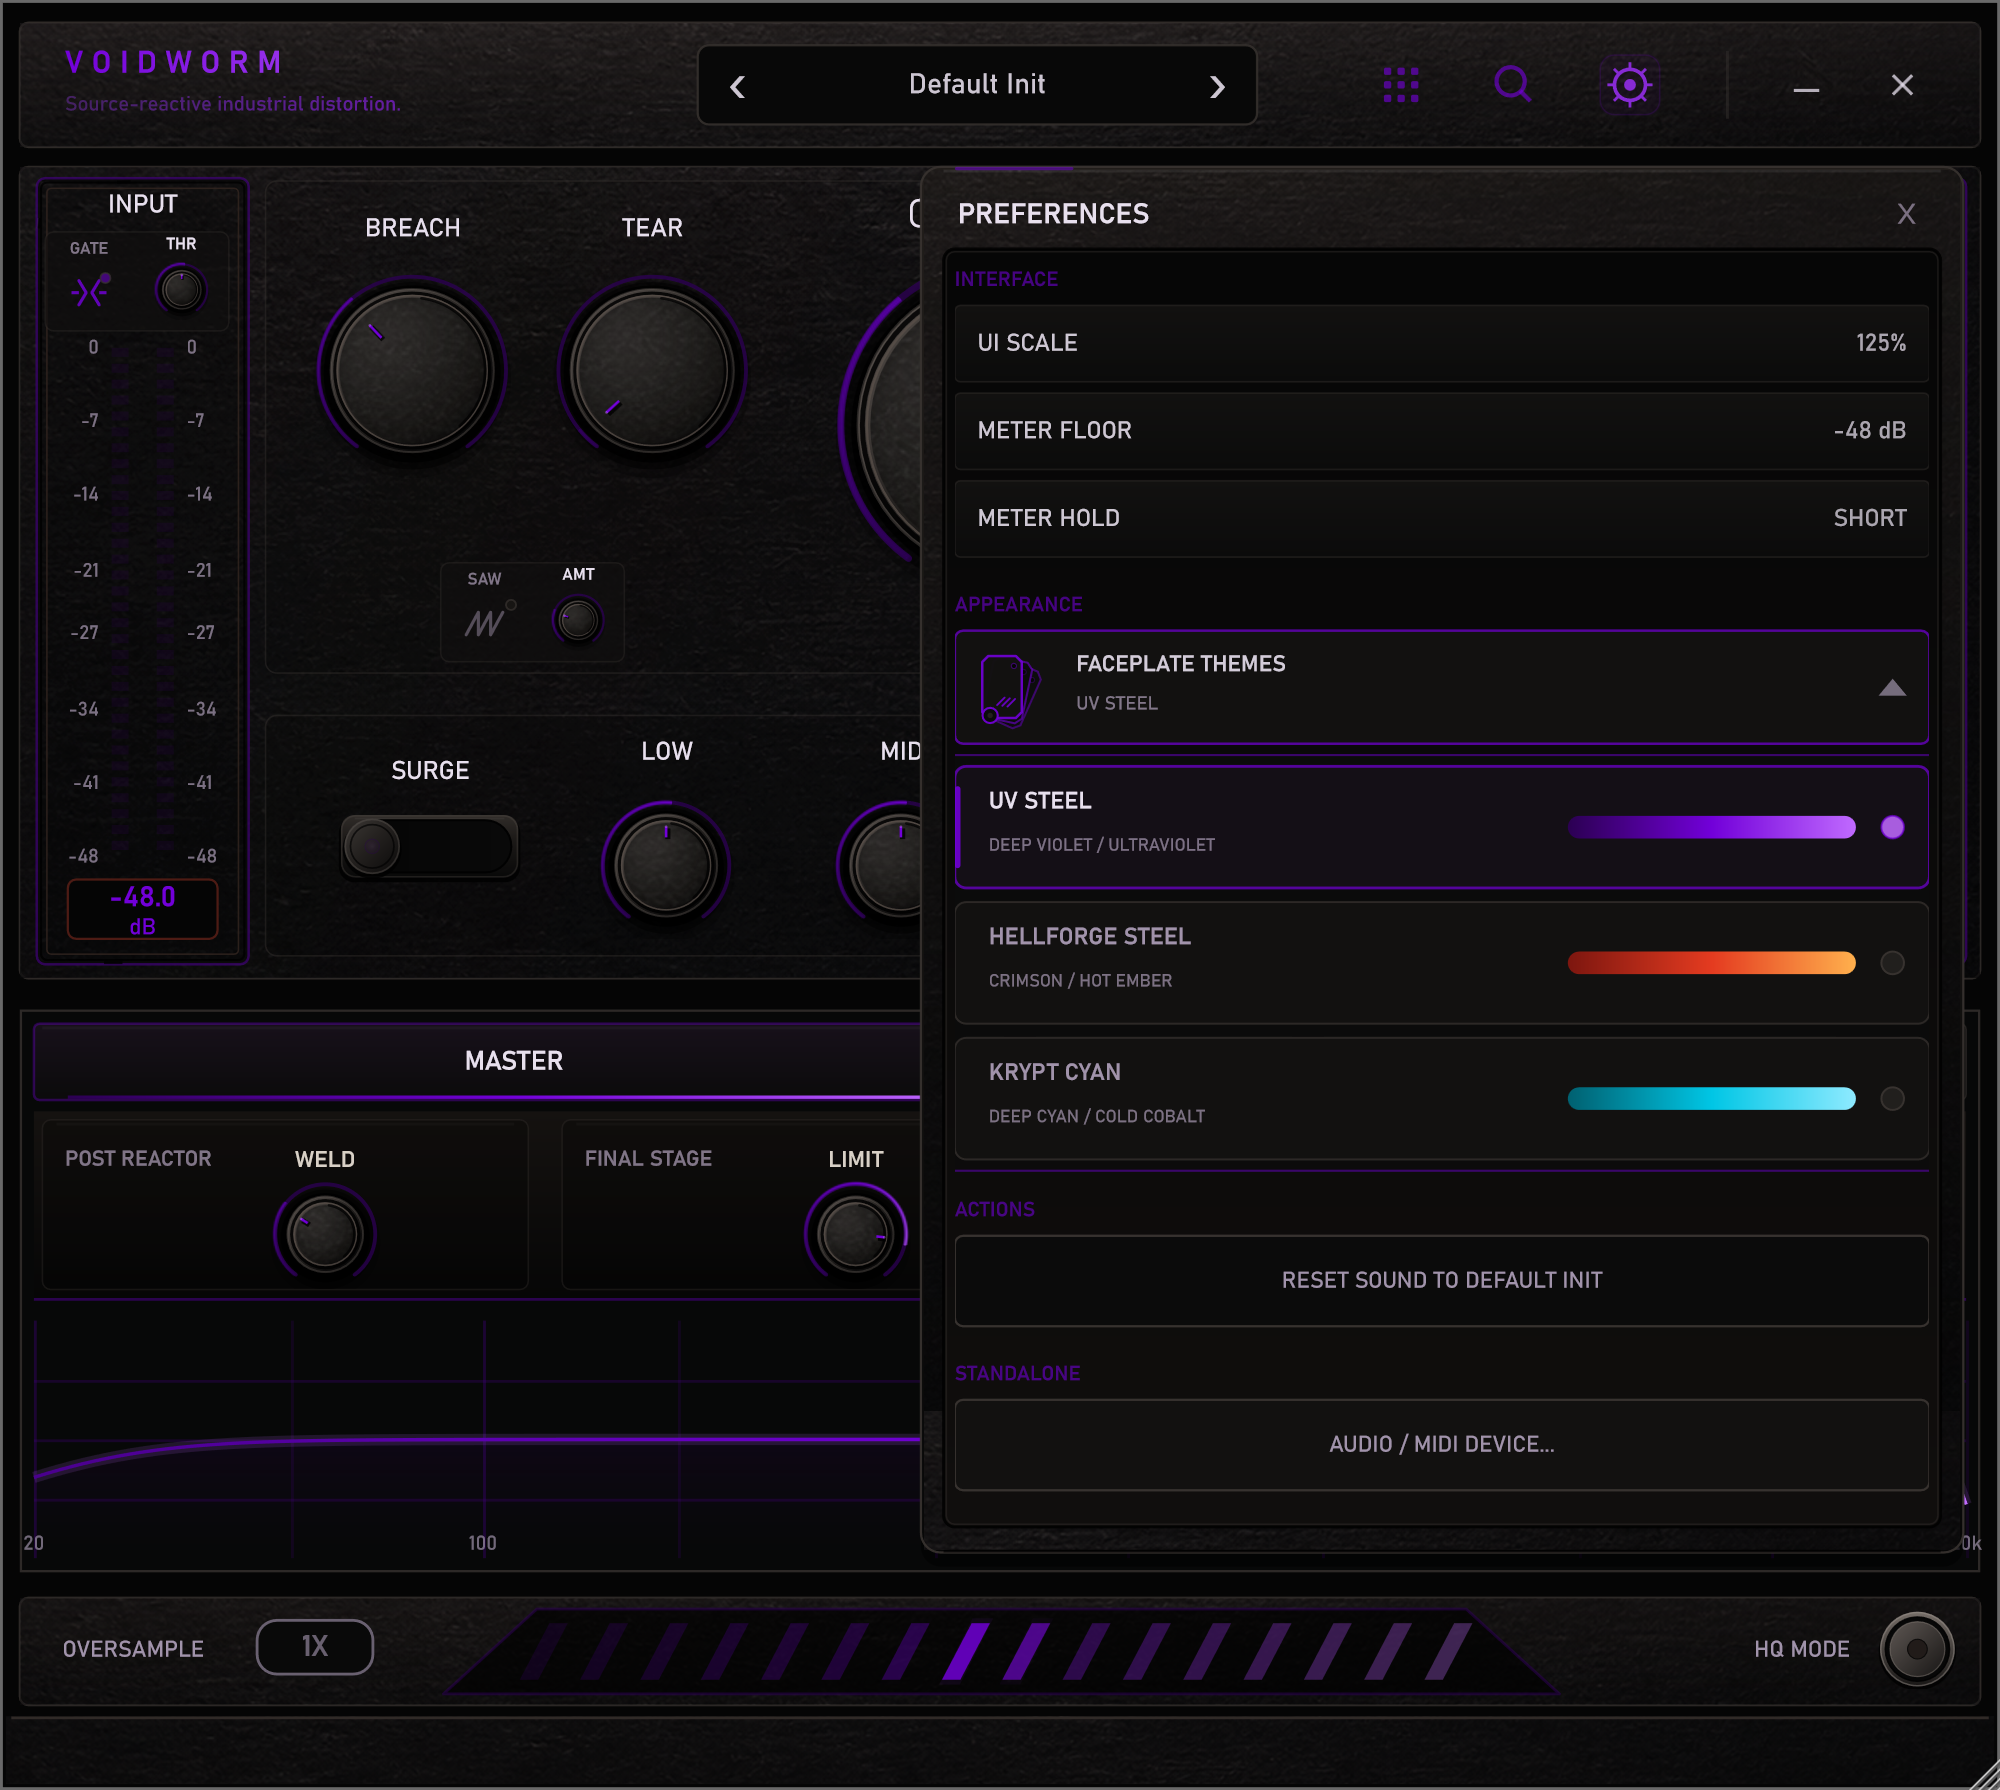
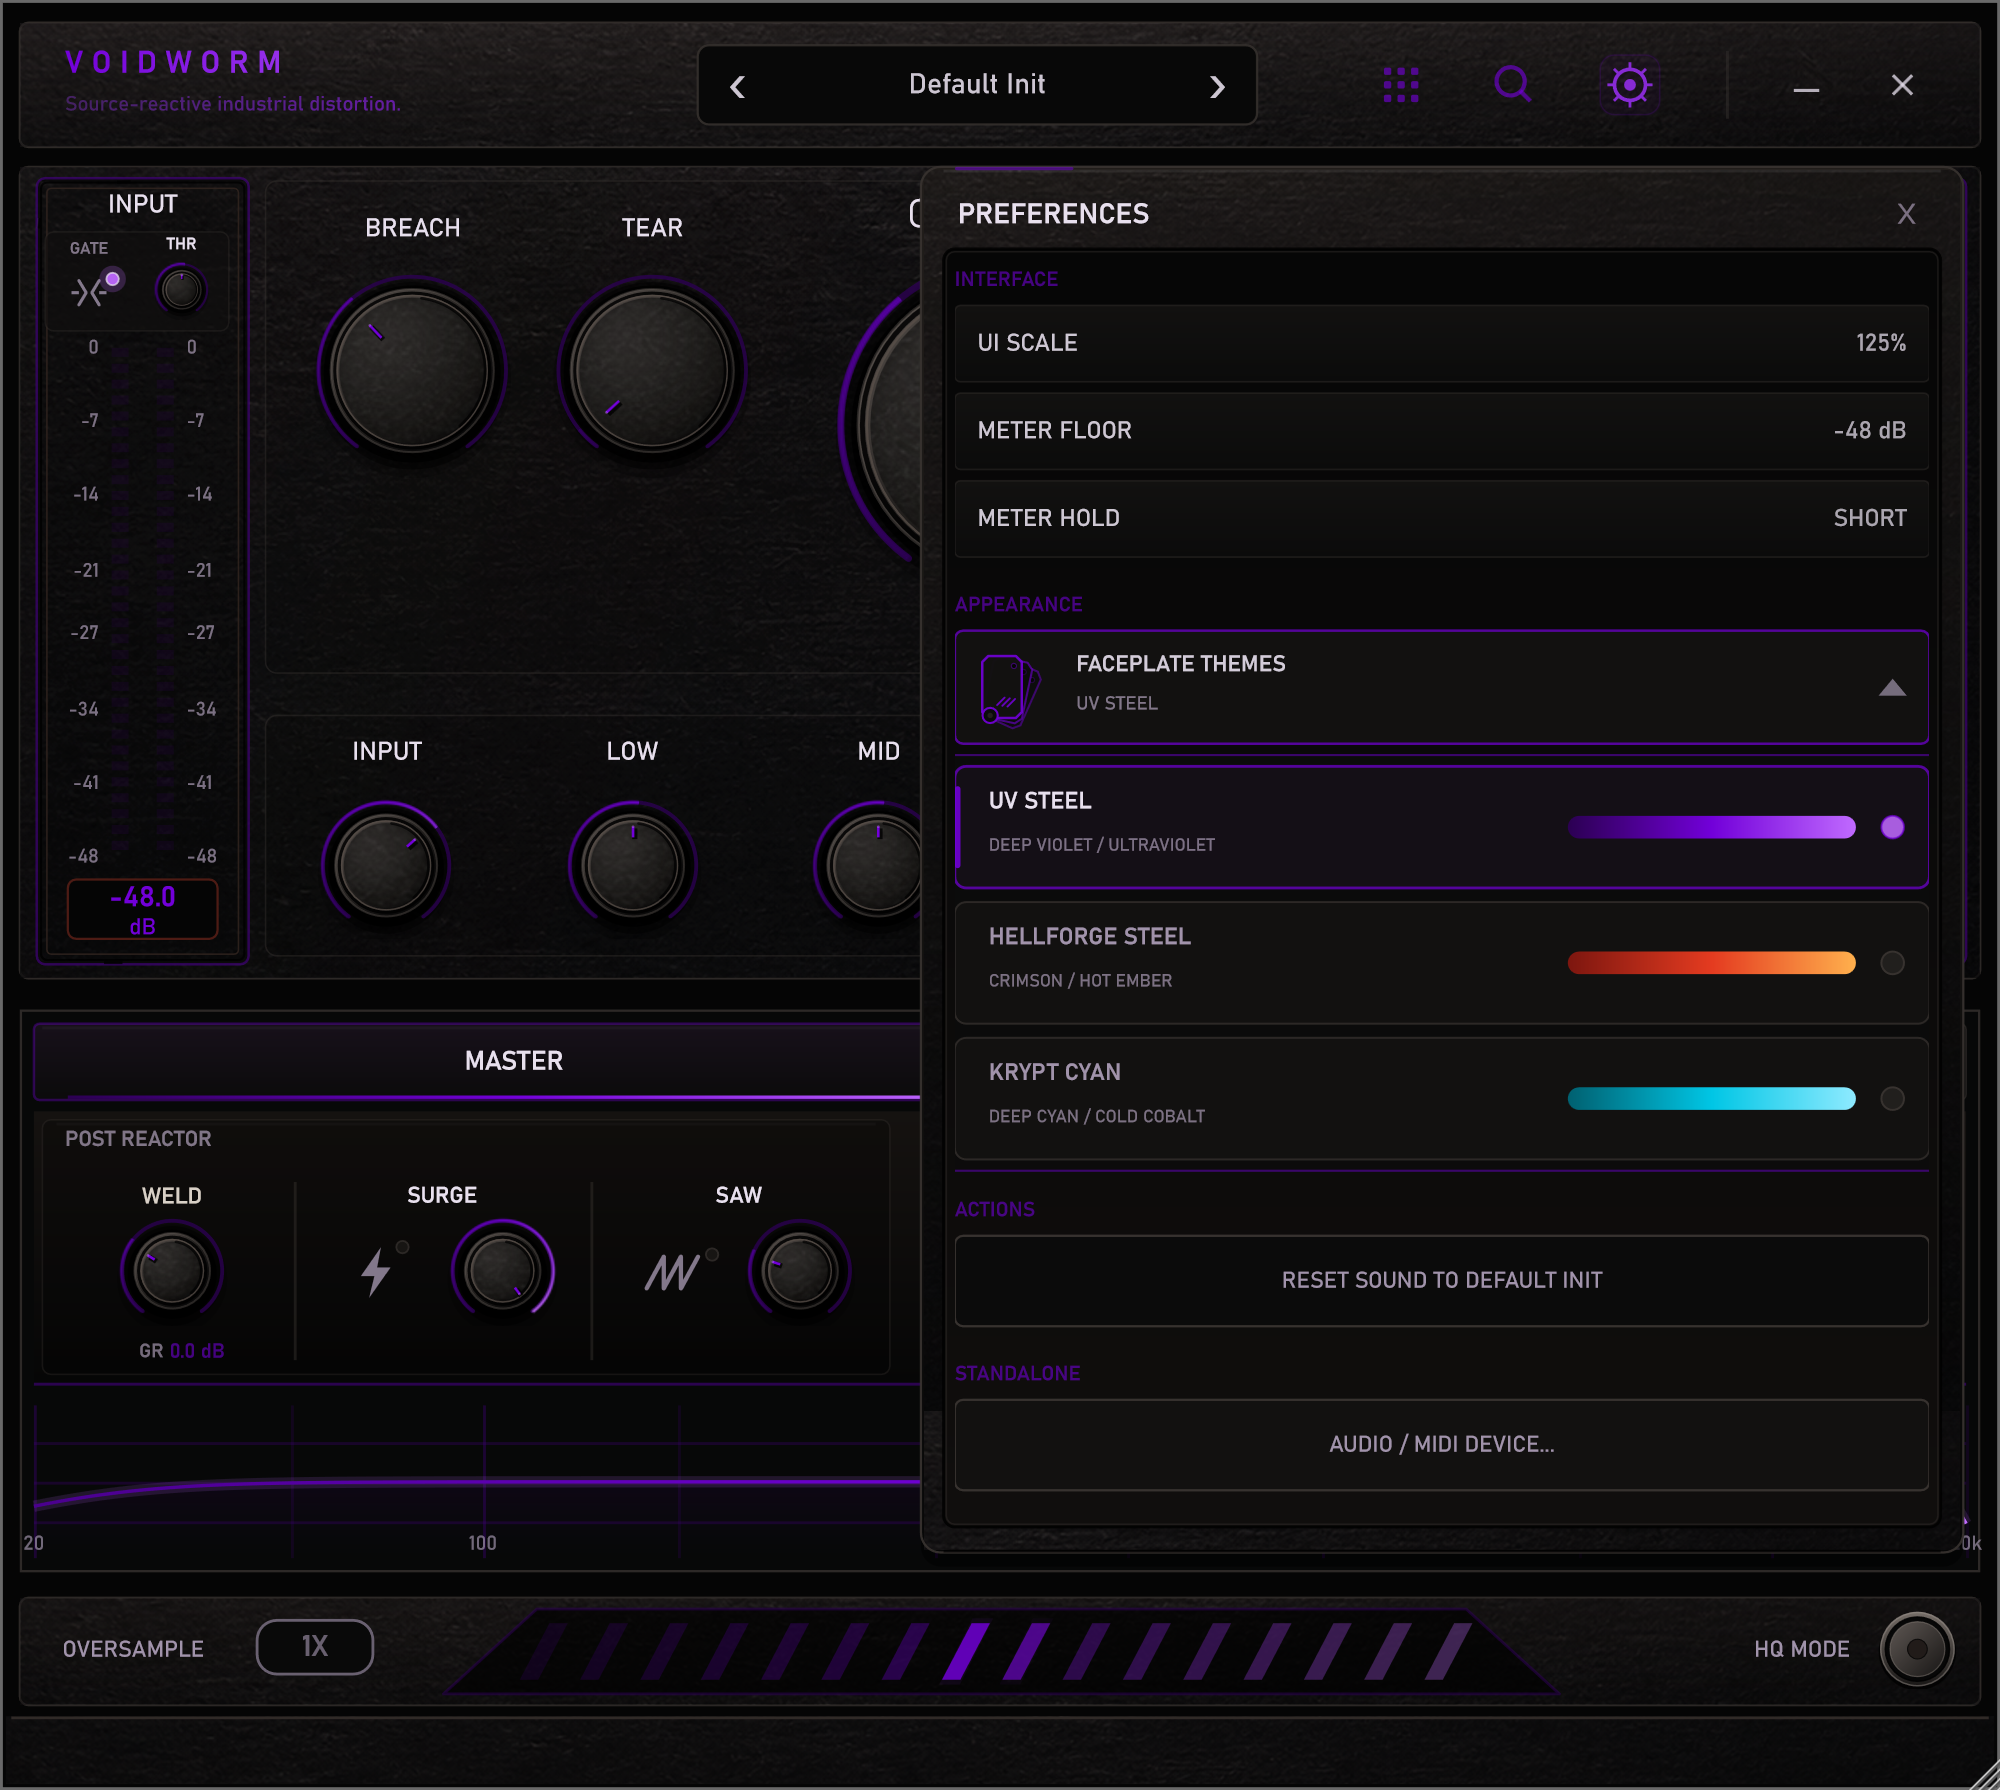
VOIDWORM 1.2.0: README, screenshots and installer links
Document the harder MASS and FEEDBACK character controls, INPUT, SURGE AMOUNT,
SURGE and SAW on the MASTER page, and the new MIX taper; recapture the five
interface screenshots; point the installers' publisher and help links to
lewonn.com.

diff --git a/README.md b/README.md
@@ -26,12 +26,14 @@ VOIDWORM follows the incoming signal instead of laying the same static distortio
 
 ## Reactors
 
-- **MASS:** Fundamental weight, low-order harmonics, low-end pressure.
+- **MASS:** Fundamental weight, low-order harmonics, low-end pressure. Past the middle, SATURATION clips the lows much harder and squares them off, and HARMONICS lets that grit through.
 - **FURNACE:** Starvation, grind, fuzz, folding, hostile midrange.
 - **ARC:** Source-derived metallic/electrical intermodulation.
-- **FEEDBACK:** Short bounded nonlinear recursion and unstable texture.
+- **FEEDBACK:** Short bounded nonlinear recursion and unstable texture. Past the middle, RETURN wakes it up on short notes too, drives it harder and brings it forward.
 
-**SAW** is a final creative stage after the reactor blend. It bends the signal through a saw, square, or triangle transfer shaped by the source's own level, adding a hard harmonic edge that follows the playing. One click switches it on, right-click or scroll changes the shape, and AMT sets how much.
+At their default middle position the character controls sound exactly as before; the extra bite lives in the upper half.
+
+**SURGE** and **SAW** are two stages after the reactor blend, side by side with WELD on the MASTER page. SURGE escalates thresholds, sag, density and compression; SAW bends the signal through a saw, square, or triangle transfer shaped by the source's own level. Each has an icon to click, a lamp that lights while it is on, and its own amount. Right-click or scroll SAW's icon to change the shape.
 
 <p align="center">
   <img src="./Media/VOIDWORM_Reactor.png" width="100%" alt="VOIDWORM REACTOR workspace">
@@ -91,11 +93,11 @@ Runs VOIDWORM without a DAW and includes integrated Audio/MIDI device settings, 
 <details>
 <summary><strong>Controls & signal path</strong></summary>
 
-The input gate is stereo-linked, enabled by default, and positioned before dry capture, DRIVE, source analysis, and the reactor engine. BREACH cross-contaminates reactor paths; TEAR introduces post-reactor micro-fragment damage; ROT and OVERLOAD control nonlinear severity; SURGE escalates the engine dynamically.
+INPUT (-24 to +12 dB) sets the level into the whole plugin, dry path included; the input meter shows the level after it. The input gate is stereo-linked, enabled by default, and positioned after INPUT and before dry capture, DRIVE, source analysis, and the reactor engine. BREACH cross-contaminates reactor paths; TEAR introduces post-reactor micro-fragment damage; ROT and OVERLOAD control nonlinear severity; SURGE escalates the engine dynamically, by as much as its amount sets.
 
 Each reactor has independent amount, on/off, Solo, high-pass and low-pass boundaries, two focus bands, and path-specific character controls. WELD is the artistic nonlinear stage after recombination. SAW follows the dry/wet mix and runs at about 400 kHz internally whatever the oversampling factor, so its shapes stay clean; its latency is constant and reported whether it is on or off. LOW, MID, HIGH, RANGE, and OUTPUT shape the master signal before the dedicated final limiter.
 
-MIX uses a latency-aligned dry path. Oversampling supports 1X, 2X, 4X, and 8X with a separate HQ processing mode.
+MIX uses a latency-aligned dry path and a straight crossfade with an even taper: half the knob is half the change, with no loudness bump in the middle. Sessions and presets saved before 1.2.0 convert on load and keep their exact dry/wet balance. Oversampling supports 1X, 2X, 4X, and 8X with a separate HQ processing mode.
 
 </details>
 
@@ -133,7 +135,7 @@ raising or lowering it is a global choice that survives preset changes.
 <details>
 <summary><strong>Presets, themes & state</strong></summary>
 
-User presets support Save, Load, Overwrite, Rename, Delete, and Search. They are stored as versioned `.voidwormpreset` files under the user's application-data directory, and include SAW; presets saved before 1.2.0 load with SAW off. Factory presets switch SAW off.
+User presets support Save, Load, Overwrite, Rename, Delete, and Search. They are stored as versioned `.voidwormpreset` files under the user's application-data directory, and include SAW, SURGE's amount and INPUT; presets saved before 1.2.0 load with SAW off, SURGE at full amount and INPUT at 0 dB. Factory presets switch SAW off.
 
 The twelve faceplates are UV STEEL, HELLFORGE STEEL, KRYPT CYAN, XENO ACID, VOID AMBER, TOXIC BRASS, PLASMA BLUE, NUCLEAR LIME, BLOOD COPPER, ASHEN GOLD, GLACIER TEAL, and RUPTURE RED. UV STEEL is the default.
 
